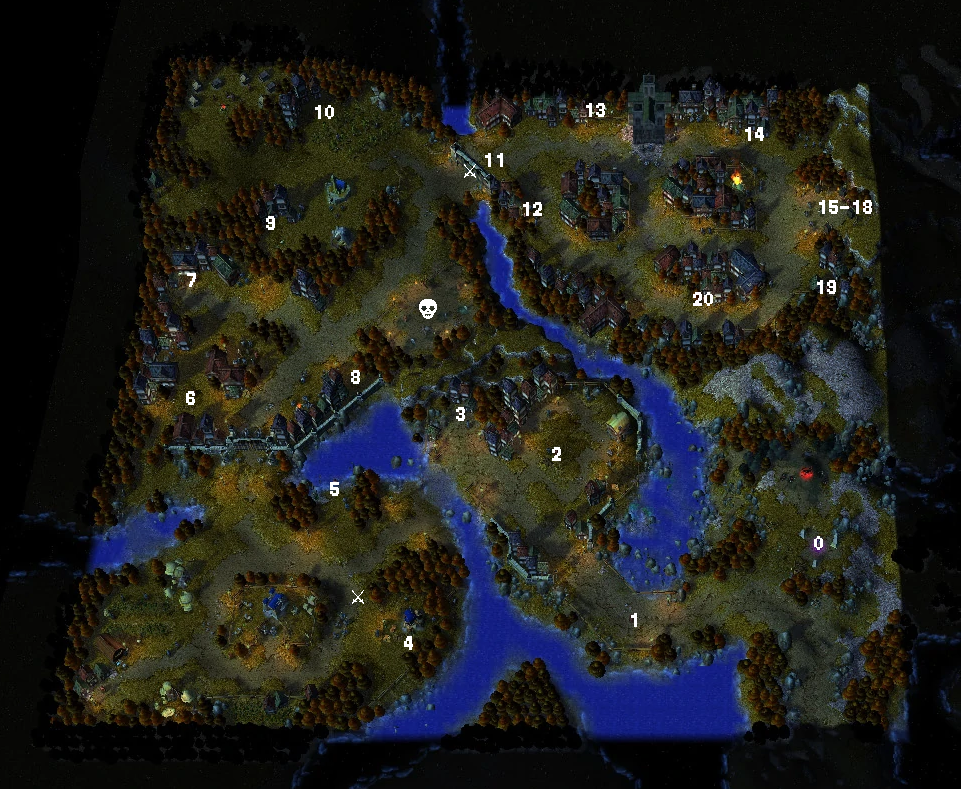
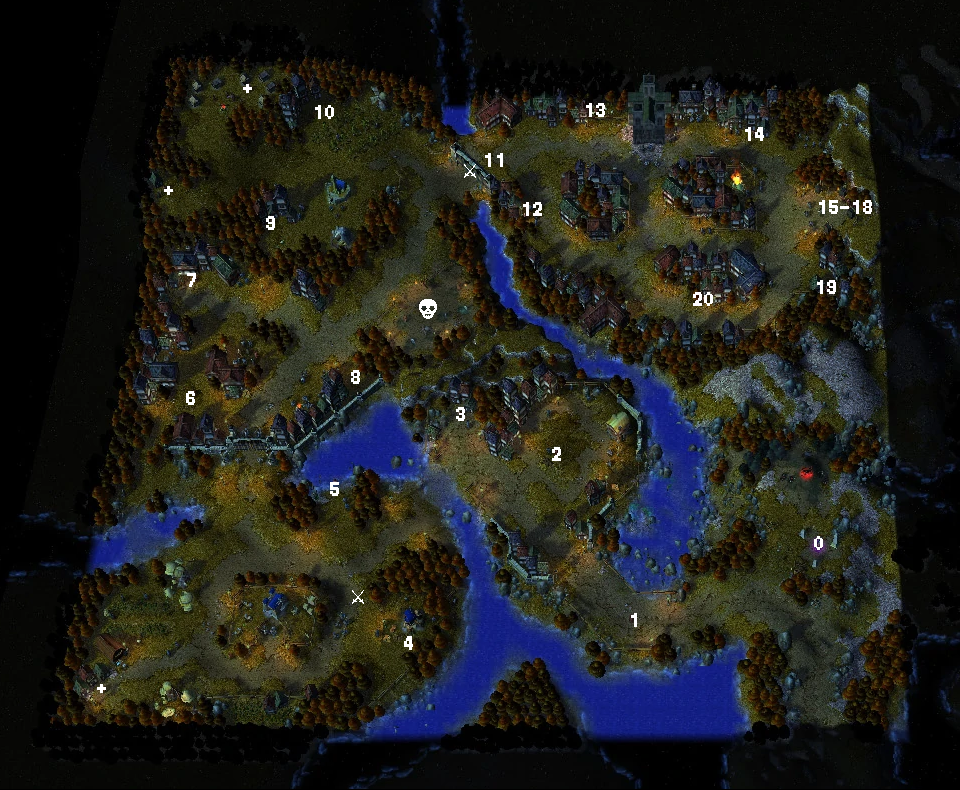
Add extra acolytes to map
Use unicode characters rather than descriptions to refer to map

diff --git a/Reign of Chaos/2 - Path of the Damned (Undead Campaign)/1 - Trudging Through the Ashes.md b/Reign of Chaos/2 - Path of the Damned (Undead Campaign)/1 - Trudging Through the Ashes.md
@@ -1,11 +1,17 @@
-# Trudging Through the Ashes
+# Trudging Through the Ashes
 
 Run Arthas through the level, collecting 20 Acolytes by moving him close enough to the "Acolyte in Hiding" red-shaded villagers to trigger their transformation.
 
 ## Overview
 
+Acolytes are marked as numbers on the following map, in the recommended order:
+
 ![acolyte order](https://github.com/Hamms/wc3-route-guide/raw/master/Reign%20of%20Chaos/2%20-%20Path%20of%20the%20Damned%20%28Undead%20Campaign%29/1a%20-%20acolyte%20order.png)
 
-The "Find the Graveyard" optional quest (marked as a skull on the map) is required; hug the fence when running past the graveyard to trigger it, then explicitly command the spawned minions to attack the gate (marked as a pair of crossed swords by Acolyte 11 on the map) to open up the final part of the city.
+The "Find the Graveyard" optional quest (marked as `💀` on the map) is required; hug the fence when running past the graveyard to trigger it, then explicitly command the spawned minions to attack the gate (marked as `⚔` by Acolyte 11 on the map) to open up the final part of the city.
 
-Make sure to kill the human Captain of the Town Guard (marked as a pair of crossed swords between Acolytes 4 and 5 on the map); this will give Arthas enough experience to reach Level 2 after Acolyte 7; when he does, immediately learn Unholy Aura for that all-important 10% passive movement speed boost.
+Make sure to kill the human Captain of the Town Guard (marked as `⚔` between Acolytes 4 and 5 on the map); this will give Arthas enough experience to reach Level 2 after Acolyte 7; when he does, immediately learn Unholy Aura  passive movement speed boost.
+
+## Notes
+
+There are a few extra Acolytes, marked as `+` on the map
